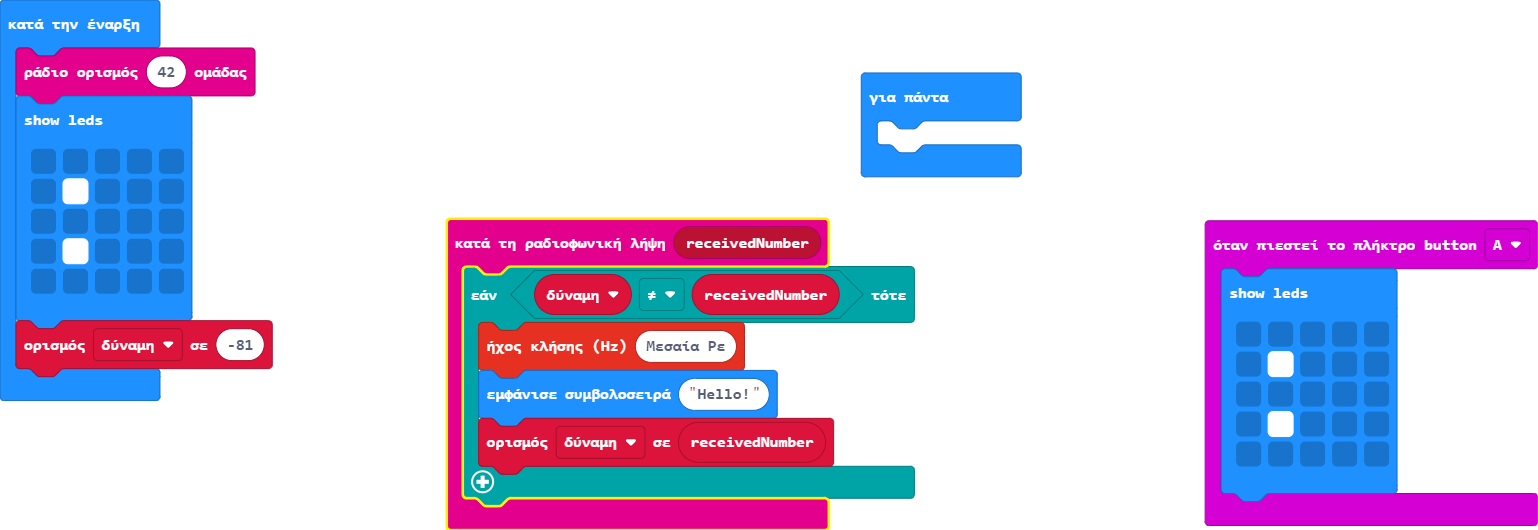
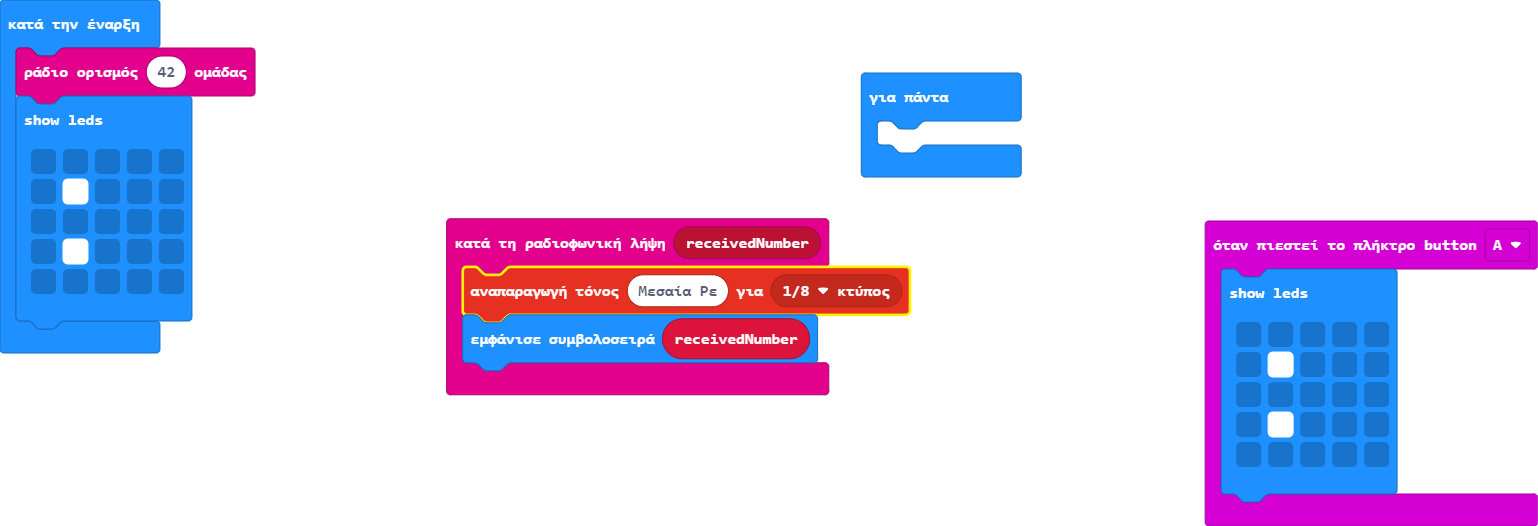
ready

diff --git a/main.ts b/main.ts
@@ -1,9 +1,6 @@
 radio.onReceivedNumber(function (receivedNumber) {
-    if (δύναμη != receivedNumber) {
-        music.ringTone(294)
-        basic.showString("Hello!")
-        δύναμη = receivedNumber
-    }
+    music.playTone(294, music.beat(BeatFraction.Eighth))
+    basic.showString("" + (receivedNumber))
 })
 input.onButtonPressed(Button.A, function () {
     basic.showLeds(`
@@ -14,7 +11,6 @@ input.onButtonPressed(Button.A, function () {
         . . . . .
         `)
 })
-let δύναμη = 0
 radio.setGroup(42)
 basic.showLeds(`
     . . . . .
@@ -23,7 +19,6 @@ basic.showLeds(`
     . # . . .
     . . . . .
     `)
-δύναμη = -81
 basic.forever(function () {
 	
 })
